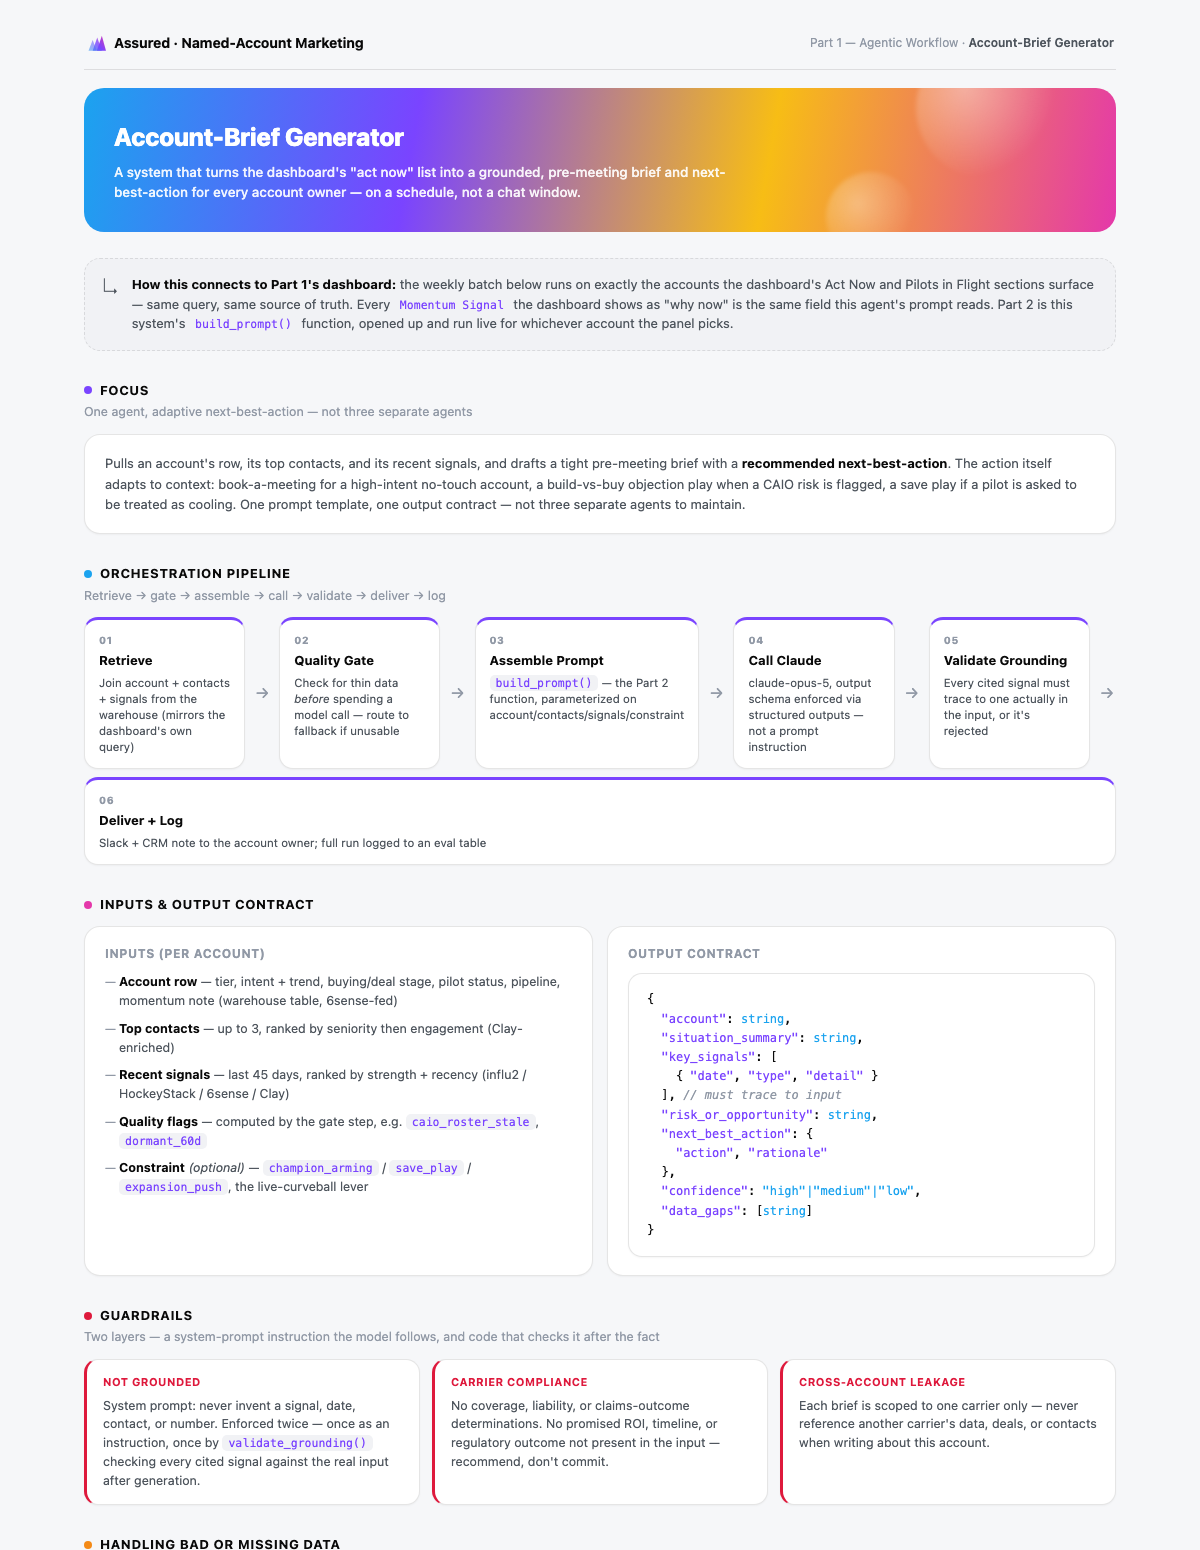
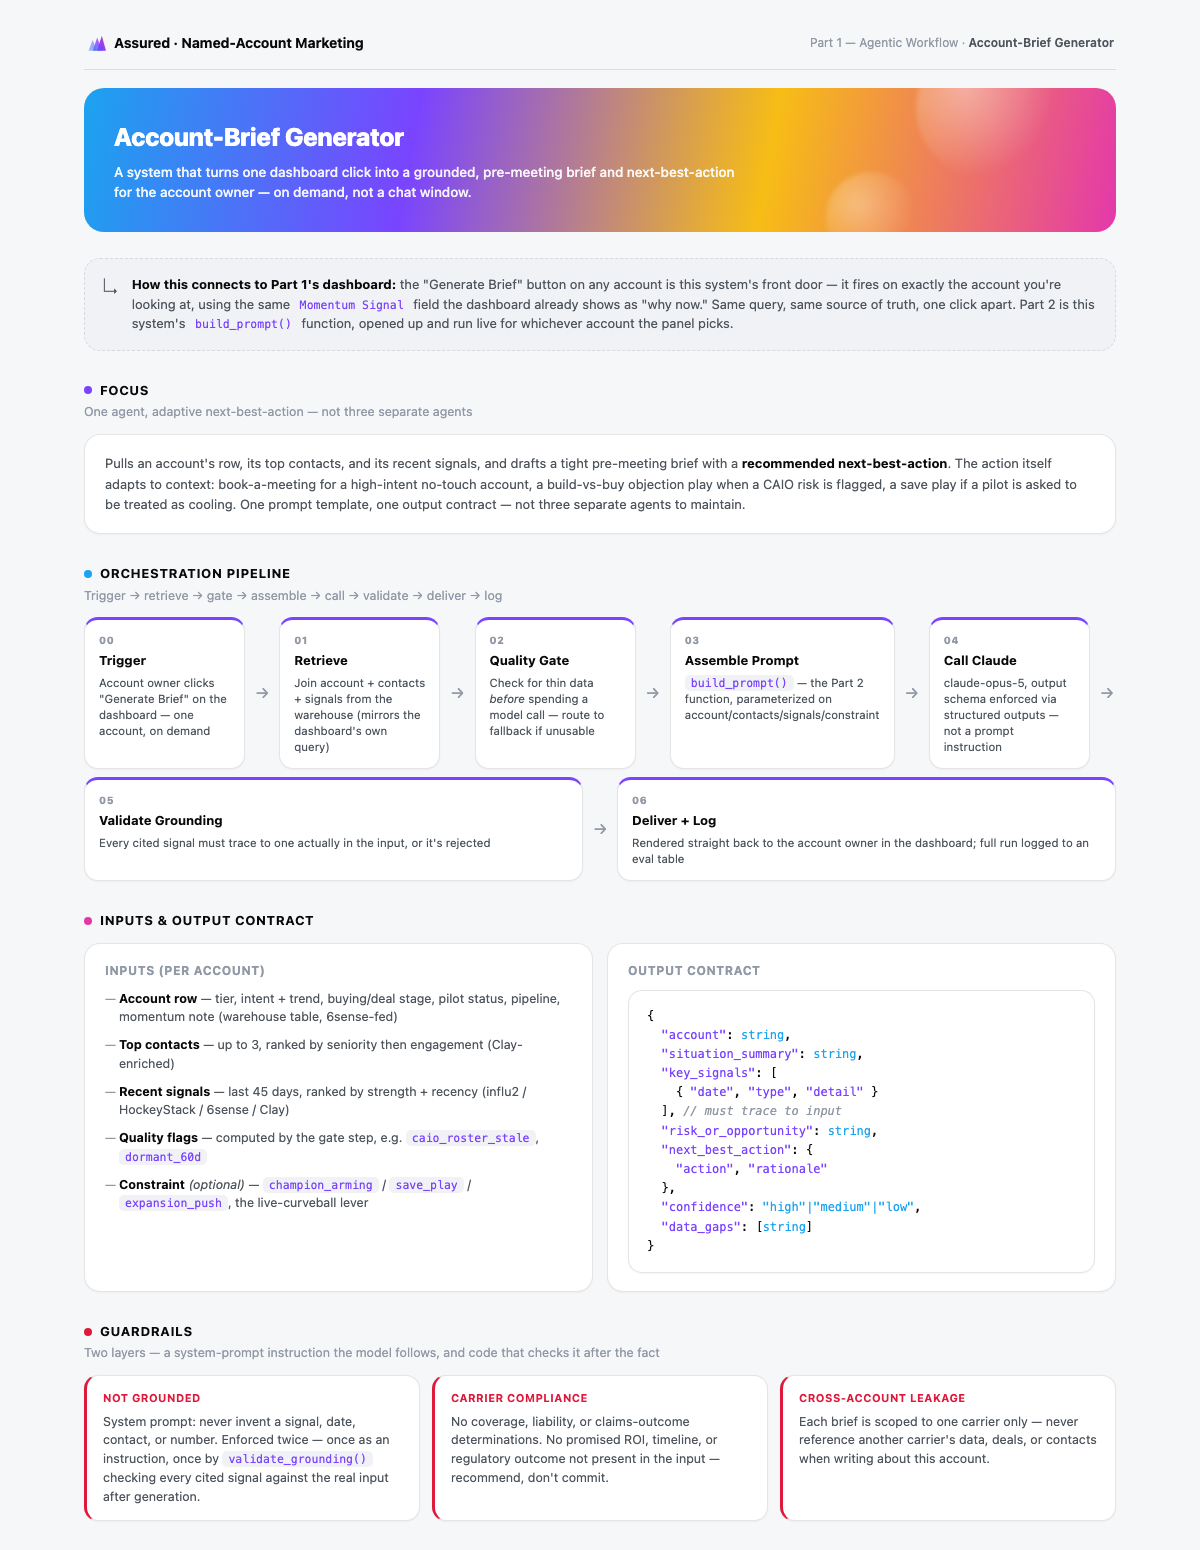
Simplify agent trigger to the dashboard button, drop the batch/webhook design
The brief describes a single on-demand action ("pulls an account's row,
contacts, and recent signals and drafts a brief"), not a scheduled
system. The architecture doc previously designed two triggers (a Sunday
cron batch plus a CRM webhook) that overcomplicated that relative to
what was asked and what the code actually does — run_account_brief()
was already a single-account, on-demand function with no batch logic.

Replaced with one trigger: the dashboard's "Generate Brief" button is
the front door. Added a clearly-marked "not built" callout for the
better long-term version — auto-firing when a meeting is booked (CRM
update or calendar event), pending a Claude calendar/CRM connector.

diff --git a/assured-system.html b/assured-system.html
@@ -353,6 +353,10 @@
   .dq-card .trigger { font-size: 11px; font-weight: 700; text-transform: uppercase; letter-spacing: 0.04em; color: var(--serious); margin-bottom: 6px; }
   .dq-card .behavior { font-size: 12.5px; color: var(--ink-secondary); line-height: 1.5; }
 
+  .future-card { background: var(--surface); border: 1px dashed var(--border); border-radius: 14px; padding: 14px 16px; margin-top: 12px; }
+  .future-card .label { font-size: 11px; font-weight: 700; text-transform: uppercase; letter-spacing: 0.04em; color: var(--spec-violet); margin-bottom: 6px; }
+  .future-card .body { font-size: 12.5px; color: var(--ink-secondary); line-height: 1.5; }
+
   .stat-row { display: grid; grid-template-columns: repeat(auto-fit, minmax(150px, 1fr)); gap: 10px; }
   .stat-tile { background: var(--surface); border: 1px solid var(--border); border-top: 3px solid; border-radius: 14px; padding: 13px 15px; box-shadow: var(--card-shadow); }
   .stat-label { font-size: 10.5px; text-transform: uppercase; letter-spacing: 0.05em; color: var(--ink-muted); font-weight: 700; margin-bottom: 5px; }
@@ -483,12 +487,12 @@
   <div id="page-agent" class="page">
 <div class="hero-band">
     <h1>Account-Brief Generator</h1>
-    <p class="hero-sub">A system that turns the dashboard's "act now" list into a grounded, pre-meeting brief and next-best-action for every account owner — on a schedule, not a chat window.</p>
+    <p class="hero-sub">A system that turns one dashboard click into a grounded, pre-meeting brief and next-best-action for the account owner — on demand, not a chat window.</p>
   </div>
 
   <div class="connect-banner">
     <span class="connect-icon">↳</span>
-    <div><b>How this connects to Part 1's dashboard:</b> the weekly batch below runs on exactly the accounts the dashboard's Act Now and Pilots in Flight sections surface — same query, same source of truth. Every <code class="inline">Momentum Signal</code> the dashboard shows as "why now" is the same field this agent's prompt reads. Part 2 is this system's <code class="inline">build_prompt()</code> function, opened up and run live for whichever account the panel picks.</div>
+    <div><b>How this connects to Part 1's dashboard:</b> the "Generate Brief" button on any account is this system's front door — it fires on exactly the account you're looking at, using the same <code class="inline">Momentum Signal</code> field the dashboard already shows as "why now." Same query, same source of truth, one click apart. Part 2 is this system's <code class="inline">build_prompt()</code> function, opened up and run live for whichever account the panel picks.</div>
   </div>
 
   <section class="block">
@@ -504,9 +508,11 @@
   <section class="block">
     <div class="block-head">
       <div class="block-title"><span class="dot" style="background:var(--spec-blue)"></span>Orchestration Pipeline</div>
-      <div class="block-desc">Retrieve → gate → assemble → call → validate → deliver → log</div>
+      <div class="block-desc">Trigger → retrieve → gate → assemble → call → validate → deliver → log</div>
     </div>
     <div class="pipeline">
+      <div class="pipe-step"><div class="num">00</div><div class="title">Trigger</div><div class="desc">Account owner clicks "Generate Brief" on the dashboard — one account, on demand</div></div>
+      <div class="pipe-arrow">→</div>
       <div class="pipe-step"><div class="num">01</div><div class="title">Retrieve</div><div class="desc">Join account + contacts + signals from the warehouse (mirrors the dashboard's own query)</div></div>
       <div class="pipe-arrow">→</div>
       <div class="pipe-step"><div class="num">02</div><div class="title">Quality Gate</div><div class="desc">Check for thin data <i>before</i> spending a model call — route to fallback if unusable</div></div>
@@ -517,7 +523,7 @@
       <div class="pipe-arrow">→</div>
       <div class="pipe-step"><div class="num">05</div><div class="title">Validate Grounding</div><div class="desc">Every cited signal must trace to one actually in the input, or it's rejected</div></div>
       <div class="pipe-arrow">→</div>
-      <div class="pipe-step"><div class="num">06</div><div class="title">Deliver + Log</div><div class="desc">Slack + CRM note to the account owner; full run logged to an eval table</div></div>
+      <div class="pipe-step"><div class="num">06</div><div class="title">Deliver + Log</div><div class="desc">Rendered straight back to the account owner in the dashboard; full run logged to an eval table</div></div>
     </div>
   </section>
 
@@ -607,14 +613,18 @@
 
   <section class="block">
     <div class="block-head">
-      <div class="block-title"><span class="dot" style="background:var(--spec-gold)"></span>Scheduling &amp; Observability</div>
+      <div class="block-title"><span class="dot" style="background:var(--spec-gold)"></span>Trigger &amp; Observability</div>
+      <div class="block-desc">One trigger today, on demand — not a batch job</div>
     </div>
     <div class="stat-row">
-      <div class="stat-tile" style="border-top-color:var(--spec-blue)"><div class="stat-label">Weekly Batch</div><div class="stat-value">Sun 18:00 ET</div><div class="stat-sub">Act Now + Pilots list, ahead of Monday review</div></div>
-      <div class="stat-tile" style="border-top-color:var(--spec-magenta)"><div class="stat-label">On-Demand</div><div class="stat-value">Meeting booked</div><div class="stat-sub">CRM webhook fires a single synchronous call</div></div>
+      <div class="stat-tile" style="border-top-color:var(--spec-magenta)"><div class="stat-label">Trigger</div><div class="stat-value">Dashboard button</div><div class="stat-sub">Account owner clicks Generate Brief; runs synchronously, ready in seconds</div></div>
       <div class="stat-tile" style="border-top-color:var(--spec-violet)"><div class="stat-label">Golden Set</div><div class="stat-value">5 accounts</div><div class="stat-sub">Hand-graded, scored weekly by Claude-as-judge</div></div>
       <div class="stat-tile" style="border-top-color:var(--spec-gold)"><div class="stat-label">Alerting</div><div class="stat-value">&gt;5% fail rate</div><div class="stat-sub">Grounding-check failures page the on-call owner</div></div>
       <div class="stat-tile" style="border-top-color:var(--spec-orange)"><div class="stat-label">Every run logs</div><div class="stat-value">input · output</div><div class="stat-sub">+ prompt version, latency, token cost</div></div>
+    </div>
+    <div class="future-card">
+      <div class="label">Where this goes next — not built</div>
+      <div class="body">Ideally this fires itself: the moment a meeting lands on the calendar or a CRM stage flips to "meeting set," the same pipeline runs automatically and the brief is waiting before the account owner asks for it. That needs Claude connected to the team's calendar/CRM to watch for the event — out of scope here, so today the account owner triggers it with one click instead.</div>
     </div>
   </section>
 

diff --git a/agent-architecture.html b/agent-architecture.html
@@ -118,6 +118,10 @@
   .dq-card .trigger { font-size: 11px; font-weight: 700; text-transform: uppercase; letter-spacing: 0.04em; color: var(--serious); margin-bottom: 6px; }
   .dq-card .behavior { font-size: 12.5px; color: var(--ink-secondary); line-height: 1.5; }
 
+  .future-card { background: var(--surface); border: 1px dashed var(--border); border-radius: 14px; padding: 14px 16px; margin-top: 12px; }
+  .future-card .label { font-size: 11px; font-weight: 700; text-transform: uppercase; letter-spacing: 0.04em; color: var(--spec-violet); margin-bottom: 6px; }
+  .future-card .body { font-size: 12.5px; color: var(--ink-secondary); line-height: 1.5; }
+
   .stat-row { display: grid; grid-template-columns: repeat(auto-fit, minmax(150px, 1fr)); gap: 10px; }
   .stat-tile { background: var(--surface); border: 1px solid var(--border); border-top: 3px solid; border-radius: 14px; padding: 13px 15px; box-shadow: var(--card-shadow); }
   .stat-label { font-size: 10.5px; text-transform: uppercase; letter-spacing: 0.05em; color: var(--ink-muted); font-weight: 700; margin-bottom: 5px; }
@@ -151,12 +155,12 @@
 
   <div class="hero-band">
     <h1>Account-Brief Generator</h1>
-    <p class="hero-sub">A system that turns the dashboard's "act now" list into a grounded, pre-meeting brief and next-best-action for every account owner — on a schedule, not a chat window.</p>
+    <p class="hero-sub">A system that turns one dashboard click into a grounded, pre-meeting brief and next-best-action for the account owner — on demand, not a chat window.</p>
   </div>
 
   <div class="connect-banner">
     <span class="connect-icon">↳</span>
-    <div><b>How this connects to Part 1's dashboard:</b> the weekly batch below runs on exactly the accounts the dashboard's Act Now and Pilots in Flight sections surface — same query, same source of truth. Every <code class="inline">Momentum Signal</code> the dashboard shows as "why now" is the same field this agent's prompt reads. Part 2 is this system's <code class="inline">build_prompt()</code> function, opened up and run live for whichever account the panel picks.</div>
+    <div><b>How this connects to Part 1's dashboard:</b> the "Generate Brief" button on any account is this system's front door — it fires on exactly the account you're looking at, using the same <code class="inline">Momentum Signal</code> field the dashboard already shows as "why now." Same query, same source of truth, one click apart. Part 2 is this system's <code class="inline">build_prompt()</code> function, opened up and run live for whichever account the panel picks.</div>
   </div>
 
   <section class="block">
@@ -172,9 +176,11 @@
   <section class="block">
     <div class="block-head">
       <div class="block-title"><span class="dot" style="background:var(--spec-blue)"></span>Orchestration Pipeline</div>
-      <div class="block-desc">Retrieve → gate → assemble → call → validate → deliver → log</div>
+      <div class="block-desc">Trigger → retrieve → gate → assemble → call → validate → deliver → log</div>
     </div>
     <div class="pipeline">
+      <div class="pipe-step"><div class="num">00</div><div class="title">Trigger</div><div class="desc">Account owner clicks "Generate Brief" on the dashboard — one account, on demand</div></div>
+      <div class="pipe-arrow">→</div>
       <div class="pipe-step"><div class="num">01</div><div class="title">Retrieve</div><div class="desc">Join account + contacts + signals from the warehouse (mirrors the dashboard's own query)</div></div>
       <div class="pipe-arrow">→</div>
       <div class="pipe-step"><div class="num">02</div><div class="title">Quality Gate</div><div class="desc">Check for thin data <i>before</i> spending a model call — route to fallback if unusable</div></div>
@@ -185,7 +191,7 @@
       <div class="pipe-arrow">→</div>
       <div class="pipe-step"><div class="num">05</div><div class="title">Validate Grounding</div><div class="desc">Every cited signal must trace to one actually in the input, or it's rejected</div></div>
       <div class="pipe-arrow">→</div>
-      <div class="pipe-step"><div class="num">06</div><div class="title">Deliver + Log</div><div class="desc">Slack + CRM note to the account owner; full run logged to an eval table</div></div>
+      <div class="pipe-step"><div class="num">06</div><div class="title">Deliver + Log</div><div class="desc">Rendered straight back to the account owner in the dashboard; full run logged to an eval table</div></div>
     </div>
   </section>
 
@@ -275,14 +281,18 @@
 
   <section class="block">
     <div class="block-head">
-      <div class="block-title"><span class="dot" style="background:var(--spec-gold)"></span>Scheduling &amp; Observability</div>
+      <div class="block-title"><span class="dot" style="background:var(--spec-gold)"></span>Trigger &amp; Observability</div>
+      <div class="block-desc">One trigger today, on demand — not a batch job</div>
     </div>
     <div class="stat-row">
-      <div class="stat-tile" style="border-top-color:var(--spec-blue)"><div class="stat-label">Weekly Batch</div><div class="stat-value">Sun 18:00 ET</div><div class="stat-sub">Act Now + Pilots list, ahead of Monday review</div></div>
-      <div class="stat-tile" style="border-top-color:var(--spec-magenta)"><div class="stat-label">On-Demand</div><div class="stat-value">Meeting booked</div><div class="stat-sub">CRM webhook fires a single synchronous call</div></div>
+      <div class="stat-tile" style="border-top-color:var(--spec-magenta)"><div class="stat-label">Trigger</div><div class="stat-value">Dashboard button</div><div class="stat-sub">Account owner clicks Generate Brief; runs synchronously, ready in seconds</div></div>
       <div class="stat-tile" style="border-top-color:var(--spec-violet)"><div class="stat-label">Golden Set</div><div class="stat-value">5 accounts</div><div class="stat-sub">Hand-graded, scored weekly by Claude-as-judge</div></div>
       <div class="stat-tile" style="border-top-color:var(--spec-gold)"><div class="stat-label">Alerting</div><div class="stat-value">&gt;5% fail rate</div><div class="stat-sub">Grounding-check failures page the on-call owner</div></div>
       <div class="stat-tile" style="border-top-color:var(--spec-orange)"><div class="stat-label">Every run logs</div><div class="stat-value">input · output</div><div class="stat-sub">+ prompt version, latency, token cost</div></div>
+    </div>
+    <div class="future-card">
+      <div class="label">Where this goes next — not built</div>
+      <div class="body">Ideally this fires itself: the moment a meeting lands on the calendar or a CRM stage flips to "meeting set," the same pipeline runs automatically and the brief is waiting before the account owner asks for it. That needs Claude connected to the team's calendar/CRM to watch for the event — out of scope here, so today the account owner triggers it with one click instead.</div>
     </div>
   </section>
 

diff --git a/agent_account_brief.py b/agent_account_brief.py
@@ -4,6 +4,10 @@ Assured — Account-Brief Generator (Part 1 agent)
 A system, not a one-off chat: retrieve -> data-quality gate -> assemble
 prompt -> call Claude -> validate grounding -> deliver -> log.
 
+Triggered on demand, one account at a time, by the "Generate Brief"
+button on the dashboard — run_account_brief() below is exactly what that
+click calls. Not a batch job.
+
 build_prompt() below is the function Part 2 opens the hood on: it is the
 exact dynamic-prompt-assembly logic, parameterized on account/contacts/
 signals/constraint, that this script calls in step 5 of run_account_brief().

diff --git a/README.md b/README.md
@@ -42,7 +42,7 @@ Styling pulls real hex values from assured.com's brand palette, mapped consisten
 Rather than building three separate agents for the brief's three next-best-action options, next-best-action adapts via a single `constraint` parameter — `champion_arming`, `save_play`, or `expansion_push` — that changes what the prompt asks for without changing the pipeline.
 
 ```
-Retrieve → Quality Gate → Assemble Prompt → Call Claude → Validate Grounding → Deliver + Log
+Trigger (dashboard button) → Retrieve → Quality Gate → Assemble Prompt → Call Claude → Validate Grounding → Deliver + Log
 ```
 
 **Quality gate** — routes to human review instead of guessing when there's nothing to ground a brief in, and flags (rather than blocks) partial-data cases:
@@ -56,16 +56,17 @@ Retrieve → Quality Gate → Assemble Prompt → Call Claude → Validate Groun
 
 **Output** is a structured JSON brief (`output_config.format: json_schema`, all fields required, `additionalProperties: false`) — not free text — so it can be rendered, logged, or piped into CRM/Slack without a parsing layer.
 
-**Scheduling & observability** (designed in `agent-architecture.html`, not wired to live infra — see Assumptions):
+**Trigger & observability** (designed in `agent-architecture.html`, not wired to live infra — see Assumptions). Deliberately one trigger, not a batch job: the dashboard's "Generate Brief" button *is* the front door — clicking it on any account is what calls `run_account_brief()` for that account, synchronously, in seconds.
 
 | | |
 |---|---|
-| Weekly batch | Sun 18:00 ET — Act Now + Pilots list, ahead of Monday review |
-| On-demand | A CRM webhook (meeting booked) fires a single synchronous call |
-| Delivery | Slack + CRM note to the account owner |
+| Trigger | Dashboard button click — one account, on demand |
+| Delivery | Rendered straight back to the account owner in the dashboard |
 | Eval | 5-account golden set, hand-graded, scored weekly by Claude-as-judge |
 | Alerting | Grounding-check failure rate > 5% pages the on-call owner |
 | Logging | Every run logs input, output, prompt version, latency, and token cost |
+
+**\*Where this goes next (not built):** ideally this fires itself — the moment a meeting lands on the calendar or a CRM stage flips to "meeting set," the same pipeline runs automatically and the brief is waiting before the account owner asks for it. That needs Claude connected to the team's calendar/CRM to watch for the event, which is out of scope for this exercise — so today, the account owner triggers it with one click instead.
 
 Run it (needs `ANTHROPIC_API_KEY` set):
 
@@ -85,11 +86,10 @@ By default this generates a real brief for Progressive under the `champion_armin
 ## Assumptions
 
 - **Retrieval** is a static JSON snapshot standing in for three nightly-synced warehouse tables (6sense, Clay, influ2, HockeyStack) — same shape, no live warehouse connection assumed.
-- **Scheduling/delivery infra** (cron trigger, Slack post, CRM write-back) is designed, not wired to live systems — described in the architecture doc as a credible plan rather than mocked code.
+- **Trigger** is the dashboard's "Generate Brief" button, one account at a time — not a batch/cron job. Designed, not wired to live infra — described in the architecture doc as a credible plan rather than mocked code.
 - **Model choice**: `claude-opus-5`, with extended thinking explicitly disabled (`thinking: {"type": "disabled"}`) — this is a bounded structured-generation task, not open-ended reasoning, and thinking otherwise shares the token budget with the JSON output.
 - **"Recent" signal** = 45-day lookback window.
 - **"Top contacts"** = ranked by seniority (C-Suite → Director) then by engagement, capped at 3.
-- **Delivery target** = the account's `Account Owner` field.
 
 ---
 
